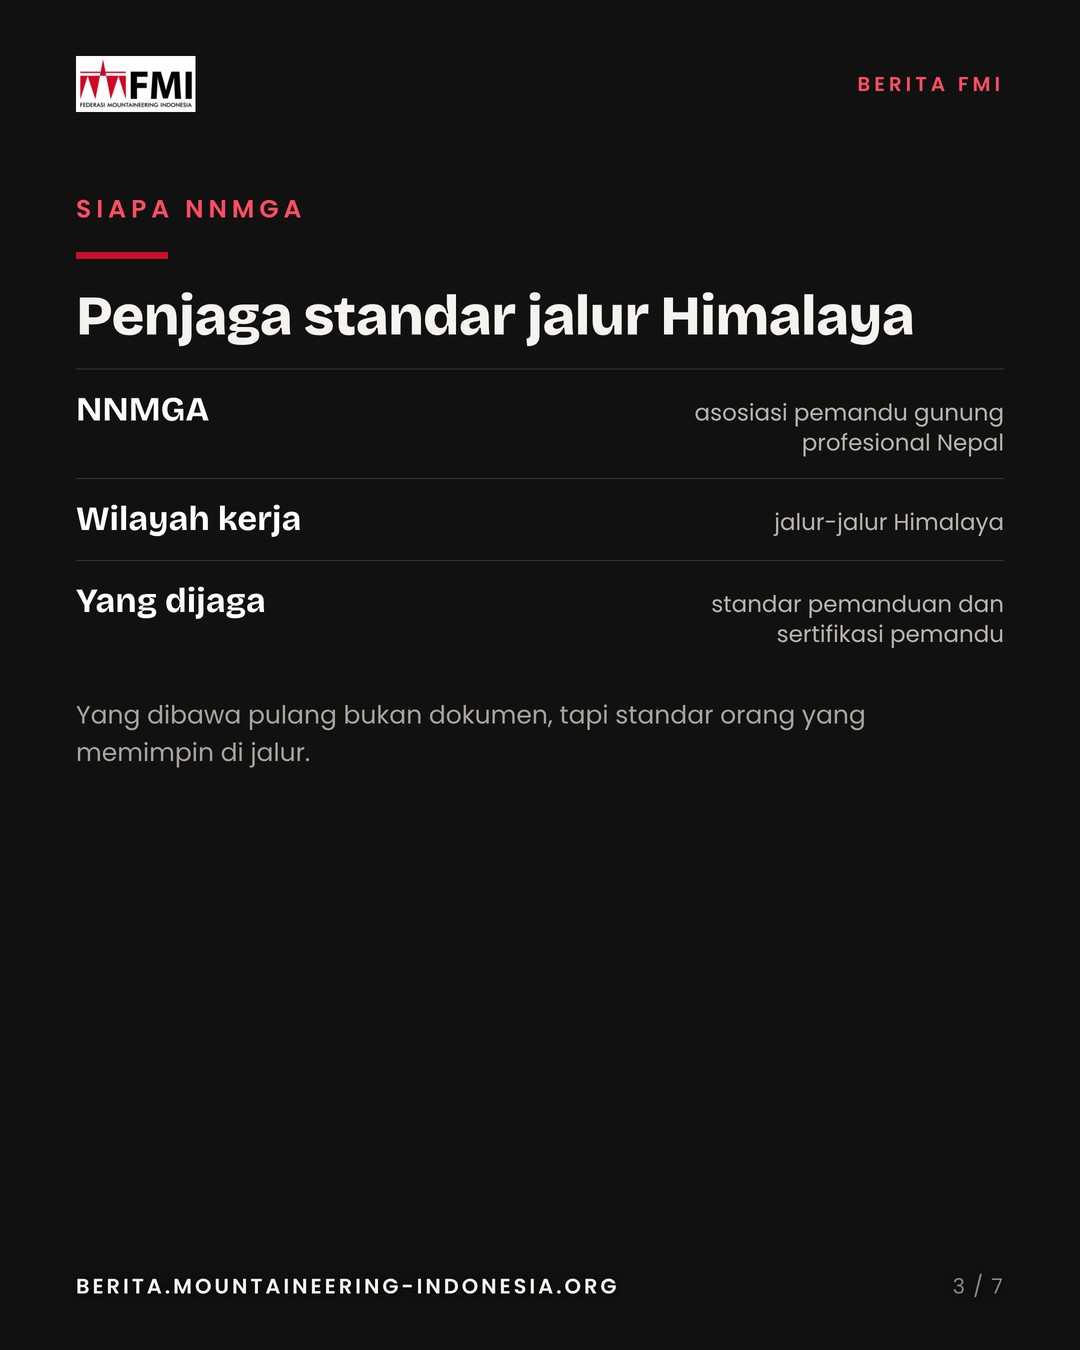
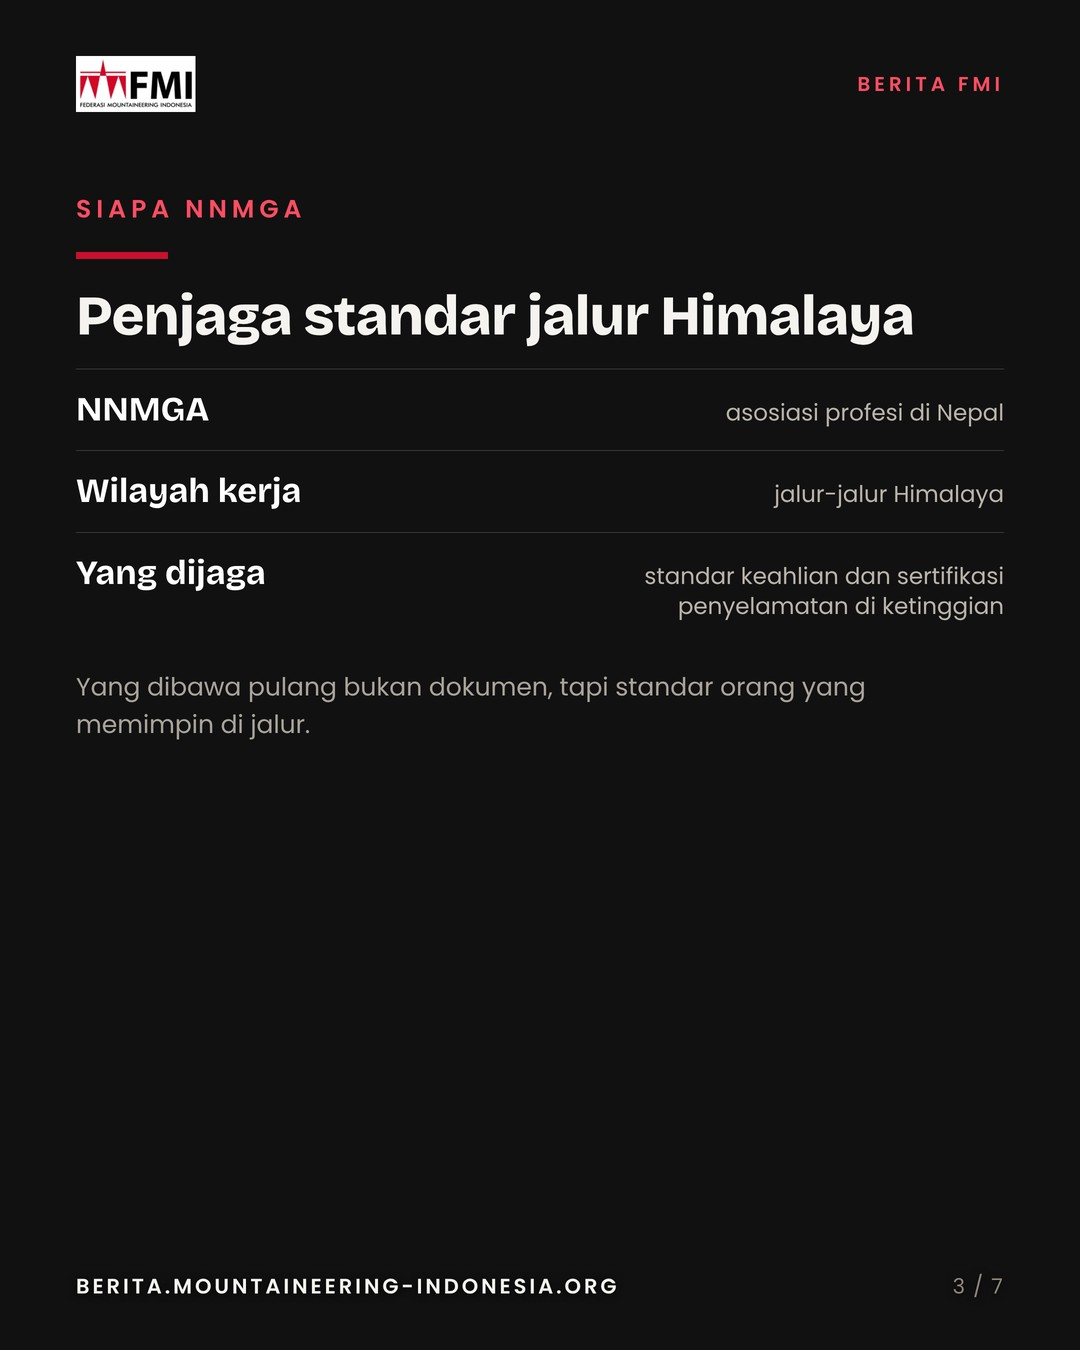
Ralat 090: buang kata pemandu gunung, substansi ke high altitude mountain rescue

Changed region(s): [[0.0611, 0.28, 0.9472, 0.56], [0.0611, 0.3422, 0.275, 0.4667]]

diff --git a/berita/090-fmi-teken-mou-nnmga-nepal.html b/berita/090-fmi-teken-mou-nnmga-nepal.html
@@ -4,11 +4,11 @@
 <meta charset="UTF-8">
 <meta name="viewport" content="width=device-width, initial-scale=1.0">
 <title>FMI Teken MoU dengan NNMGA Nepal - Berita FMI</title>
-<meta name="description" content="FMI dan Nepal National Mountain Guide Association menandatangani MoU di Kathmandu, Jumat (30/10/2026), disaksikan perwakilan KBRI Dhaka. Isinya pelatihan, sertifikasi, dan pertukaran instruktur pemandu gunung.">
+<meta name="description" content="FMI dan Nepal National Mountain Guide Association menandatangani MoU di Kathmandu, Jumat (30/10/2026), disaksikan perwakilan KBRI Dhaka. Isinya pelatihan, sertifikasi, dan pertukaran instruktur penyelamatan di ketinggian.">
 <meta property="og:type" content="article">
 <meta property="og:url" content="https://berita.mountaineering-indonesia.org/090-fmi-teken-mou-nnmga-nepal.html">
 <meta property="og:title" content="FMI Teken MoU dengan NNMGA Nepal">
-<meta property="og:description" content="FMI dan Nepal National Mountain Guide Association menandatangani MoU di Kathmandu, Jumat (30/10/2026), disaksikan perwakilan KBRI Dhaka. Isinya pelatihan, sertifikasi, dan pertukaran instruktur pemandu gunung.">
+<meta property="og:description" content="FMI dan Nepal National Mountain Guide Association menandatangani MoU di Kathmandu, Jumat (30/10/2026), disaksikan perwakilan KBRI Dhaka. Isinya pelatihan, sertifikasi, dan pertukaran instruktur penyelamatan di ketinggian.">
 <meta property="og:image" content="https://berita.mountaineering-indonesia.org/img/090-fmi-teken-mou-nnmga-nepal-og2.jpg">
 <meta property="og:locale" content="id_ID">
 <meta property="og:site_name" content="Federasi Mountaineering Indonesia">
@@ -216,16 +216,16 @@ footer a:hover { color: var(--red); }
 </figure>
     <p data-id>KATHMANDU, NEPAL - Federasi Mountaineering Indonesia (FMI) menandatangani Memorandum of Understanding (MoU) dengan Nepal National Mountain Guide Association (NNMGA) di Kathmandu, Nepal, Jumat (30/10/2026). Penandatanganan berlangsung di sela-sela rangkaian Sidang Umum UIAA 2026 dan disaksikan perwakilan KBRI Dhaka, yang wilayah kerjanya juga mencakup Nepal.</p>
     <p data-en>KATHMANDU, NEPAL - The Federasi Mountaineering Indonesia (FMI) signed a Memorandum of Understanding (MoU) with the Nepal National Mountain Guide Association (NNMGA) in Kathmandu, Nepal, on Friday (30/10/2026). The signing took place on the sidelines of the 2026 UIAA General Assembly and was witnessed by representatives of the Indonesian Embassy in Dhaka, whose remit also covers Nepal.</p>
-    <p data-id>NNMGA adalah asosiasi pemandu gunung profesional Nepal yang menjaga standar pemanduan di jalur-jalur Himalaya. Isi MoU menyangkut keahlian orang yang bekerja di jalur: pelatihan, sertifikasi, dan pertukaran instruktur. Prioritas awalnya pelatihan High Altitude Mountain Rescue pada 2027-2028.</p>
-    <p data-en>The NNMGA is Nepal's professional mountain guide association and the body that keeps guiding standards on Himalayan routes. The MoU concerns the skills of the people who work on those routes: training, certification and instructor exchange. Its first priority is High Altitude Mountain Rescue training in 2027-2028.</p>
+    <p data-id>NNMGA adalah asosiasi profesi di Nepal yang menjaga standar keahlian di jalur-jalur Himalaya. Isi MoU menyangkut penyelamatan di ketinggian: pelatihan, sertifikasi, dan pertukaran instruktur, dengan prioritas High Altitude Mountain Rescue pada 2027-2028.</p>
+    <p data-en>The NNMGA is a professional association in Nepal that keeps skills standards on Himalayan routes. The MoU concerns high-altitude rescue: training, certification and instructor exchange, with High Altitude Mountain Rescue as its first priority in 2027-2028.</p>
     <p data-id>Dari pihak Indonesia hadir Ketua Delegasi FMI Brigjen TNI (Mar) Sandy Muchjidin Latief, S.I.P., M.M.; Sekretaris Jenderal dr. M. Iqbal El Mubarak, Sp.B-ET, FINACS; Wakil Sekretaris Jenderal Kolonel Marinir Arief Rahman Hakim, M.Tr (Opsla)., M.Han; Ketua Bidang Penelitian, Pengembangan, dan Inovasi dr. Putro Setyobudyo Muhammad, MBL, CIHL; dan Ketua Biro Hubungan Luar Negeri Zulfahmi Ramli.</p>
     <p data-en>Present from the Indonesian side were the head of the FMI delegation, Brig. Gen. TNI (Mar) Sandy Muchjidin Latief, S.I.P., M.M.; secretary general dr. M. Iqbal El Mubarak, Sp.B-ET, FINACS; deputy secretary general Col. Marinir Arief Rahman Hakim, M.Tr (Opsla)., M.Han; head of research, development and innovation dr. Putro Setyobudyo Muhammad, MBL, CIHL; and head of foreign relations Zulfahmi Ramli.</p>
     <p data-id>Hadir juga perwakilan RI di Nepal dan Bangladesh: Wakil Konsul Kehormatan RI untuk Nepal Upendra, Atase Pertahanan KBRI Dhaka Kolonel Inf. Imam Setiawan, Pelaksana Fungsi Sosial Budaya KBRI Dhaka Sahid Nurkarim, dan Pranata Informasi Diplomatik KBRI Dhaka Tomo Sudrajat.</p>
     <p data-en>Also present were Indonesian representatives in Nepal and Bangladesh: deputy honorary consul for Nepal Upendra, defence attache at the Indonesian Embassy in Dhaka Col. Inf. Imam Setiawan, social and cultural affairs officer Sahid Nurkarim, and diplomatic information officer Tomo Sudrajat.</p>
     <p data-id>Dari NNMGA hadir Presiden Tul Singh Gurung, Immediate Past President Ang Norbu Sherpa, Vice President Lakpa Sherpa, General Secretary Pimba Tenjing Lama, Treasurer Abiral Rai, anggota CEB Vinayak Jaya Malla, Convener Komite Teknis Riten Jangbu Sherpa (Tashi), senior guide expert Lambabu Sherpa dan Tshering Pande Bhote, serta staf Sobit Kunwar dan Riruk Bhote.</p>
     <p data-en>From the NNMGA came president Tul Singh Gurung, immediate past president Ang Norbu Sherpa, vice president Lakpa Sherpa, general secretary Pimba Tenjing Lama, treasurer Abiral Rai, CEB member Vinayak Jaya Malla, technical committee convener Riten Jangbu Sherpa (Tashi), senior guide experts Lambabu Sherpa and Tshering Pande Bhote, and staff members Sobit Kunwar and Riruk Bhote.</p>
-    <p data-id>Ketua Delegasi FMI Brigjen TNI (Mar) Sandy Muchjidin Latief, S.I.P., M.M. menilai kerja sama ini menyentuh hal yang paling menentukan di lapangan. "Keselamatan pendakian ditentukan oleh orang yang memimpin di jalur dan pengetahuan yang dibawanya. Belajar dari pemandu Himalaya membuat standar kami naik, dan keahlian pendaki Indonesia punya jalan untuk diakui di tingkat dunia," katanya.</p>
-    <p data-en>The head of the FMI delegation, Brig. Gen. TNI (Mar) Sandy Muchjidin Latief, S.I.P., M.M., said the cooperation touches the factor that decides most on the ground. "Climbing safety is decided by the person leading on the route and the knowledge they carry. Learning from Himalayan guides raises our standards, and it gives Indonesian climbers' skills a path to international recognition," he said.</p>
+    <p data-id>Ketua Delegasi FMI Brigjen TNI (Mar) Sandy Muchjidin Latief, S.I.P., M.M. menilai kerja sama ini menyentuh hal yang paling menentukan di lapangan. "Keselamatan pendakian ditentukan oleh orang yang memimpin di jalur dan pengetahuan yang dibawanya. Belajar dari praktik penyelamatan di Himalaya membuat standar kami naik, dan keahlian pendaki Indonesia punya jalan untuk diakui di tingkat dunia," katanya.</p>
+    <p data-en>The head of the FMI delegation, Brig. Gen. TNI (Mar) Sandy Muchjidin Latief, S.I.P., M.M., said the cooperation touches the factor that decides most on the ground. "Climbing safety is decided by the person leading on the route and the knowledge they carry. Learning from Himalayan rescue practice raises our standards, and it gives Indonesian climbers' skills a path to international recognition," he said.</p>
     <p data-id>Ketua Umum PB FMI Mayjen TNI (Mar) Purn. Buyung Lalana, S.E. menyebut kerja sama ini sebagai arah jangka panjang. "Kami membangun tata kelola pendakian yang tertib, aman, dan berkelanjutan. Kerja sama dengan NNMGA adalah bagian dari upaya itu, agar pengalaman Indonesia di kawasan Ring of Fire dipertemukan dengan praktik terbaik dunia," ujarnya.</p>
     <p data-en>FMI chairman Maj. Gen. TNI (Mar) Ret. Buyung Lalana, S.E. described the cooperation as a long-term direction. "We are building climbing governance that is orderly, safe and sustainable. Cooperation with the NNMGA is part of that effort, bringing Indonesia's experience in the Ring of Fire together with global best practice," he said.</p>
     <p data-id>Inti kerja sama ini transfer pengetahuan, dan jalannya dua arah. Instruktur NNMGA datang mengajar di Indonesia, sementara cara FMI mengelola jalur di gunung api kawasan Ring of Fire dan hutan tropis menjadi bahan pelajaran bagi mereka. Bukan hanya menerima standar, tapi ikut menyumbang. Medan Indonesia yang tersebar di bentang kepulauan lebih dari 17 ribu pulau memberi persoalan yang jarang ditemui di jalur Himalaya: cuaca yang berubah cepat, kawah aktif, dan akses yang bergantung pada penyeberangan laut.</p>
@@ -250,7 +250,7 @@ footer a:hover { color: var(--red); }
         <img src="img/090-ig-2.jpg" alt="Slide 2: tiga isi kesepakatan, pelatihan, sertifikasi, pertukaran instruktur" loading="lazy">
       </div>
       <div class="gallery-slide">
-        <img src="img/090-ig-3.jpg" alt="Slide 3: profil NNMGA, asosiasi pemandu gunung profesional Nepal" loading="lazy">
+        <img src="img/090-ig-3.jpg" alt="Slide 3: profil NNMGA, asosiasi profesi di Nepal penjaga standar keahlian jalur Himalaya" loading="lazy">
       </div>
       <div class="gallery-slide">
         <img src="img/090-ig-4.jpg" alt="Slide 4: kutipan Ketua Delegasi FMI Sandy Muchjidin Latief soal keselamatan pendakian" loading="lazy">
